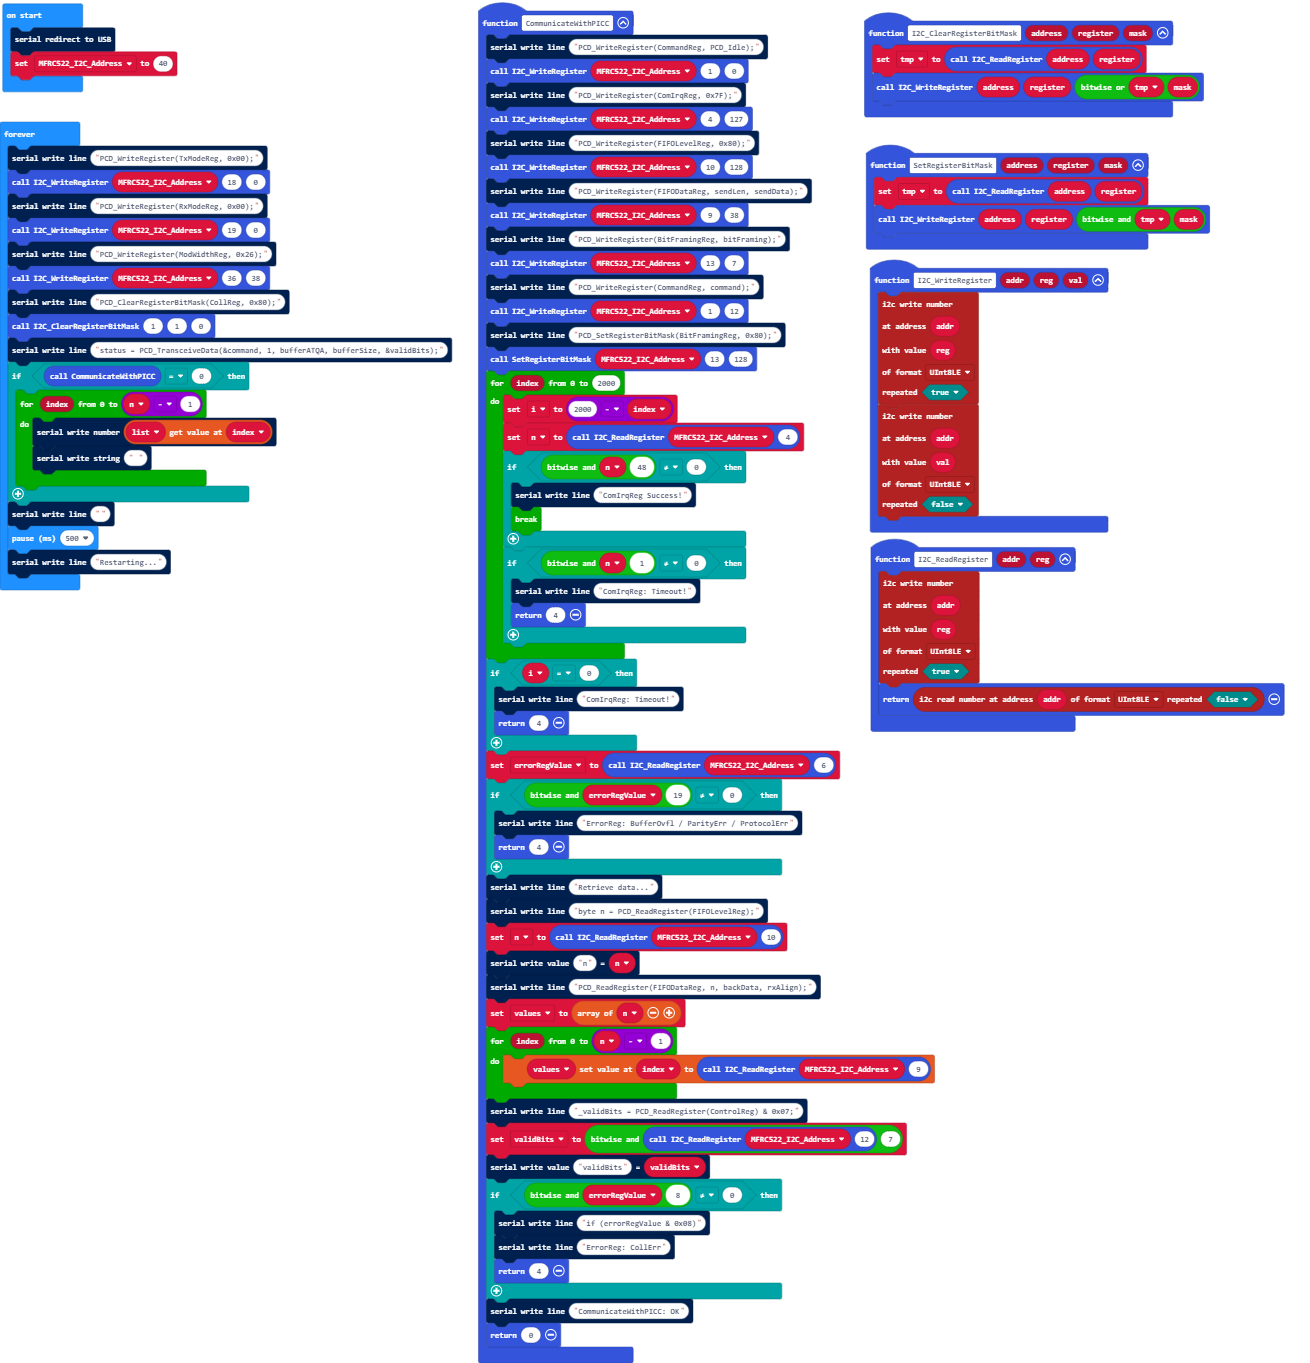
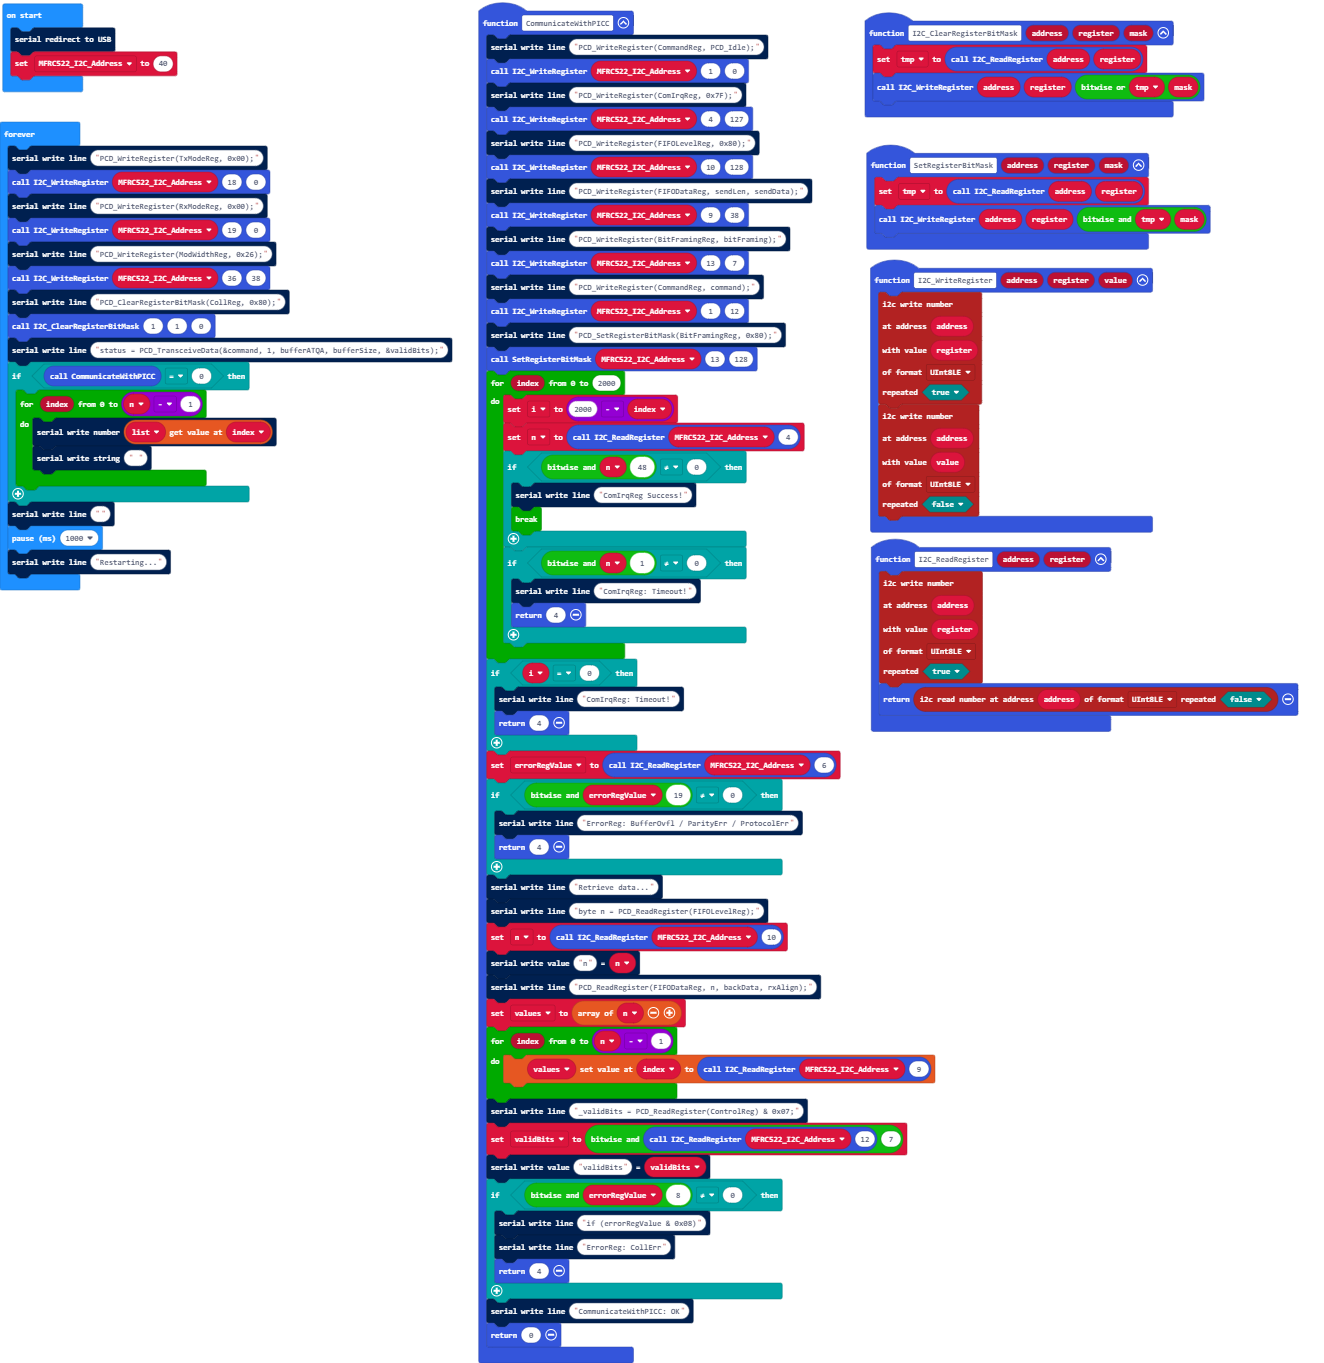
parameter names

diff --git a/main.ts b/main.ts
@@ -2,16 +2,16 @@ function SetRegisterBitMask (address: number, register: number, mask: number) {
     tmp = I2C_ReadRegister(address, register)
     I2C_WriteRegister(address, register, custom.BitwiseAnd(tmp, mask))
 }
-function I2C_WriteRegister (addr: number, reg: number, val: number) {
+function I2C_WriteRegister (address: number, register: number, value: number) {
     pins.i2cWriteNumber(
-    addr,
-    reg,
+    address,
+    register,
     NumberFormat.UInt8LE,
     true
     )
     pins.i2cWriteNumber(
-    addr,
-    val,
+    address,
+    value,
     NumberFormat.UInt8LE,
     false
     )
@@ -76,14 +76,14 @@ function CommunicateWithPICC () {
     serial.writeLine("CommunicateWithPICC: OK")
     return 0
 }
-function I2C_ReadRegister (addr: number, reg: number) {
+function I2C_ReadRegister (address: number, register: number) {
     pins.i2cWriteNumber(
-    addr,
-    reg,
+    address,
+    register,
     NumberFormat.UInt8LE,
     true
     )
-    return pins.i2cReadNumber(addr, NumberFormat.UInt8LE, false)
+    return pins.i2cReadNumber(address, NumberFormat.UInt8LE, false)
 }
 let validBits = 0
 let values: number[] = []
@@ -112,6 +112,6 @@ basic.forever(function () {
         }
     }
     serial.writeLine("")
-    basic.pause(500)
+    basic.pause(1000)
     serial.writeLine("Restarting...")
 })
